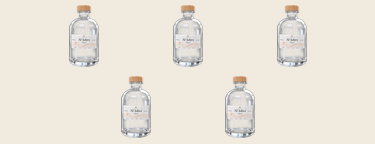
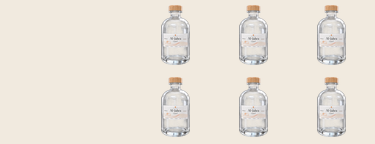
Refine Wallet bottle progress layout

diff --git a/backend/test/wallet-pass-artwork.test.js b/backend/test/wallet-pass-artwork.test.js
@@ -15,19 +15,19 @@ const artworkDirectory = path.join(__dirname, "..", "assets", "wallet");
 const emptyBottlePath = path.join(artworkDirectory, "al-jahra-empty.png");
 const fullBottlePath = path.join(artworkDirectory, "al-jahra-full.png");
 
-test("wallet stamp state fills one bottle per ten Beans", () => {
+test("wallet stamp state fills one of six bottles per fifty Beans", () => {
     assert.deepEqual(walletStampState(0), {
         filledCount: 0,
-        stampsLeft: 5,
+        stampsLeft: 6,
         rewardReady: false
     });
-    assert.equal(walletStampState(29).filledCount, 2);
-    assert.deepEqual(walletStampState(50), {
-        filledCount: 5,
+    assert.equal(walletStampState(149).filledCount, 2);
+    assert.deepEqual(walletStampState(300), {
+        filledCount: 6,
         stampsLeft: 0,
         rewardReady: true
     });
-    assert.equal(walletStampState(51).filledCount, 0);
+    assert.equal(walletStampState(301).filledCount, 0);
 });
 
 test("wallet strip renders correct Retina dimensions and changes with progress", async () => {
@@ -46,7 +46,7 @@ test("wallet strip renders correct Retina dimensions and changes with progress",
         await renderWalletStampStrip({
             emptyBottlePath,
             fullBottlePath,
-            filledCount: 5,
+            filledCount: 6,
             outputPath: fullOutput,
             scale: 2
         });

diff --git a/backend/wallet-pass-artwork.js b/backend/wallet-pass-artwork.js
@@ -1,8 +1,8 @@
 const path = require("path");
 const sharp = require("sharp");
 
-const STAMP_COUNT = 5;
-const POINTS_PER_STAMP = 10;
+const STAMP_COUNT = 6;
+const POINTS_PER_STAMP = 50;
 const REWARD_THRESHOLD = STAMP_COUNT * POINTS_PER_STAMP;
 
 function walletStampState(pointsBalance) {
@@ -41,16 +41,17 @@ async function renderWalletStampStrip({
 }) {
     const width = 375 * scale;
     const height = 144 * scale;
-    const slotWidth = 92 * scale;
-    const slotHeight = 62 * scale;
+    const slotWidth = 64 * scale;
+    const slotHeight = 60 * scale;
     const topY = 5 * scale;
-    const bottomY = 76 * scale;
+    const bottomY = 77 * scale;
     const positions = [
-        { left: 38 * scale, top: topY },
-        { left: 142 * scale, top: topY },
-        { left: 246 * scale, top: topY },
-        { left: 90 * scale, top: bottomY },
-        { left: 194 * scale, top: bottomY }
+        { left: 144 * scale, top: topY },
+        { left: 222 * scale, top: topY },
+        { left: 300 * scale, top: topY },
+        { left: 144 * scale, top: bottomY },
+        { left: 222 * scale, top: bottomY },
+        { left: 300 * scale, top: bottomY }
     ];
     const safeFilledCount = Math.min(Math.max(Number(filledCount) || 0, 0), STAMP_COUNT);
     const [emptyBottle, fullBottle] = await Promise.all([

diff --git a/backend/server.js b/backend/server.js
@@ -5165,13 +5165,8 @@ async function generateWalletPass(email) {
     passJSON.storeCard.auxiliaryFields = [
         {
             key: "stamps_left",
-            label: "STAMPS LEFT",
+            label: "BOTTLES LEFT",
             value: stampState.stampsLeft
-        },
-        {
-            key: "available_reward",
-            label: "AVAILABLE REWARD",
-            value: stampState.rewardReady ? "Ready" : "Keep collecting"
         }
     ];
     passJSON.storeCard.backFields = [
